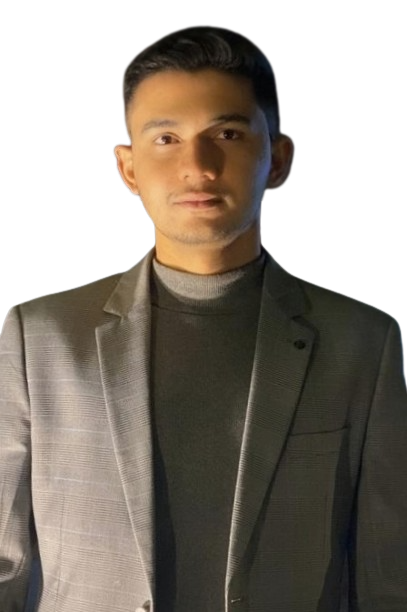
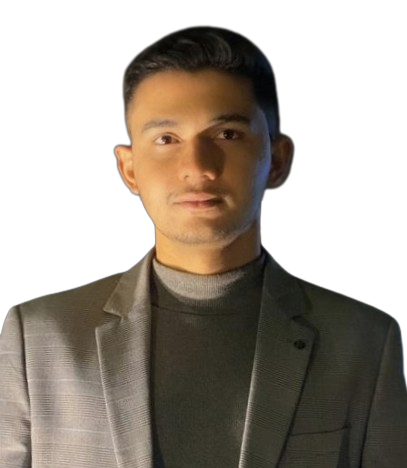
updated discription added contact info

diff --git a/index.html b/index.html
@@ -45,14 +45,11 @@
     <div class="d-flex flex-column">
 
       <div class="profile">
-        <img src="assets/img/profile-img.jpg" alt="" class="img-fluid rounded-circle">
+        <img src="assets/img/profile-img.png" alt="" class="img-fluid rounded-circle">
         <h1 class="text-light"><a href="index.html">Abdul Jalil</a></h1>
         <div class="social-links mt-3 text-center">
-          <a href="#" class="twitter"><i class="bx bxl-twitter"></i></a>
-          <a href="#" class="facebook"><i class="bx bxl-facebook"></i></a>
-          <a href="#" class="instagram"><i class="bx bxl-instagram"></i></a>
-          <a href="#" class="google-plus"><i class="bx bxl-skype"></i></a>
-          <a href="#" class="linkedin"><i class="bx bxl-linkedin"></i></a>
+          <a href="https://github.com/abduljalilmemon" class=""><i class="bx bxl-github"></i></a>
+          <a href="https://www.linkedin.com/in/abdul-jalil-memon/" class="linkedin"><i class="bx bxl-linkedin"></i></a>
         </div>
       </div>
 
@@ -73,7 +70,9 @@
   <section id="hero" class="d-flex flex-column justify-content-center align-items-center">
     <div class="hero-container" data-aos="fade-in">
       <h1>Abdul Jalil</h1>
-      <p>I'm a <span class="typed" data-typed-items="Software Engineer."></span></p>
+      <p>I'm a
+        <span class="typed" data-typed-items="Software Engineer., Python Developer., Computer Scientist., Freelancer."></span>
+      </p>
     </div>
   </section><!-- End Hero -->
 
@@ -81,14 +80,29 @@
 
     <!-- ======= About Section ======= -->
     <section id="about" class="about">
-      <div class="container">
-
+      <div class="container-fluid">
         <div class="section-title">
           <h2>About</h2>
-          <p>I am a software engineer with more than one year of experience and a strong foundation in Python programming. I have experience designing and implementing efficient, scalable software solutions. I have a passion for finding creative solutions to complex technical problems. As a lifelong learner, I am always looking to expand my skills and knowledge, and I am excited to join a dynamic and innovative team where I can apply my expertise in Python to real-world challenges.</p>
+        </div>
+        <div style="padding: 1%;">
+          <p>
+            Greetings! I'm a Software Engineer on a mission at TechnoGenics, where cybersecurity meets cutting-edge innovation. My days are a whirlwind of crafting backend microservices that sift through the digital cosmos, swiftly notifying users of any foul play - all thanks to the Python magic conjured with Django, FastAPI, and Flask. 🐍✨
+          </p>
+          <p>
+            But that's not all! I'm the data whisperer, choreographing a symphony of CRUD operations with MongoDB, orchestrating a data ballet into Neo4j from diverse web crawlers. And oh, let's not forget the pièce de résistance - building automated subscription spectacles using ElasticSearch, RabbitMQ, and REST APIs! 🎩🎪
+          </p>
+          <p>
+            With a degree in Computer Science, I'm equipped with the superpower of Python prowess and a formidable arsenal of data structures. My secret weapon? AI wizardry - especially genetic algorithms! 🧠🧬
+          </p>
+          <p>
+            I'm not just a lone crusader; I thrive in a dynamic team where ideas spark, and innovation ignites. I yearn to tackle the most intricate challenges, fueled by a desire to create solutions that impact the world for the better.
+          </p>
+          <p>
+            Here's to joining forces with a team that celebrates ingenuity, embraces collaboration, and thrives on solving the unsolvable. Together, we'll conquer the cyber frontier and leave a legacy of innovation! 🚀🌌
+          </p>
         </div>
 
-        <div class="row">
+        <!-- <div class="row">
           <div class="col-lg-3" data-aos="fade-right">
             <img src="assets/img/profile-img.png" class="img-fluid rounded-6" style="box-shadow: 10px 10px 5px #ccc;" alt="">
           </div>
@@ -98,21 +112,19 @@
               <div class="col-lg-6">
                 <ul>
                   <li><i class="bi bi-chevron-right"></i> <strong>Birthday:</strong> <span>13 Aug 1999</span></li>
-                  <li><i class="bi bi-chevron-right"></i> <strong>Website:</strong> <span>abduljalilmemon.github.io/</span></li>
                   <li><i class="bi bi-chevron-right"></i> <strong>Phone:</strong> <span>+92 3477733113</span></li>
-                  <li><i class="bi bi-chevron-right"></i> <strong>City:</strong> <span>Lahore, Karachi</span></li>
+                  <li><i class="bi bi-chevron-right"></i> <strong>City:</strong> <span>Karachi, Sindh</span></li>
                 </ul>
               </div>
               <div class="col-lg-6">
                 <ul>
-                  <li><i class="bi bi-chevron-right"></i> <strong>Age:</strong> <span>23</span></li>
                   <li><i class="bi bi-chevron-right"></i> <strong>Degree:</strong> <span>Bachelor</span></li>
                   <li><i class="bi bi-chevron-right"></i> <strong>Email:</strong> <span>abduljaleelmemon3@gmail.com</span></li>
                 </ul>
               </div>
             </div>
           </div>
-        </div>
+        </div> -->
 
       </div>
     </section><!-- End About Section -->
@@ -177,7 +189,7 @@
 
         <div class="row">
           <div class="col-lg-6" data-aos="fade-up">
-            <h3 class="resume-title">Summary</h3>
+            <!-- <h3 class="resume-title">Summary</h3>
             <div class="resume-item pb-0">
               <h4>Abdul Jalil</h4>
               <p><em>Experienced and deadline-focused Software Engineer with 1+ year of experience, skilled in designing and developing user-centered software solutions from concept to delivery.</em></p>
@@ -186,7 +198,7 @@
                 <li>+92 3477733113</li>
                 <li>abduljaleelmemon3@gmail.com</li>
               </ul>
-            </div>
+            </div> -->
 
             <h3 class="resume-title">Education</h3>
             <div class="resume-item">
@@ -553,12 +565,11 @@
     <!-- End Testimonials Section -->
 
     <!-- ======= Contact Section ======= -->
-    <!-- <section id="contact" class="contact">
+    <section id="contact" class="contact">
       <div class="container">
 
         <div class="section-title">
           <h2>Contact</h2>
-          <p>Magnam dolores commodi suscipit. Necessitatibus eius consequatur ex aliquid fuga eum quidem. Sit sint consectetur velit. Quisquam quos quisquam cupiditate. Et nemo qui impedit suscipit alias ea. Quia fugiat sit in iste officiis commodi quidem hic quas.</p>
         </div>
 
         <div class="row" data-aos="fade-in">
@@ -568,22 +579,21 @@
               <div class="address">
                 <i class="bi bi-geo-alt"></i>
                 <h4>Location:</h4>
-                <p>A108 Adam Street, New York, NY 535022</p>
+                <p>Karachi, Pakistan</p>
               </div>
 
               <div class="email">
                 <i class="bi bi-envelope"></i>
                 <h4>Email:</h4>
-                <p>info@example.com</p>
+                <p>abduljaleelmemon3@gmail.com</p>
               </div>
 
               <div class="phone">
                 <i class="bi bi-phone"></i>
                 <h4>Call:</h4>
-                <p>+1 5589 55488 55s</p>
+                <p>+92 347 7733113</p>
               </div>
-
-              <iframe src="https://www.google.com/maps/embed?pb=!1m14!1m8!1m3!1d12097.433213460943!2d-74.0062269!3d40.7101282!3m2!1i1024!2i768!4f13.1!3m3!1m2!1s0x0%3A0xb89d1fe6bc499443!2sDowntown+Conference+Center!5e0!3m2!1smk!2sbg!4v1539943755621" frameborder="0" style="border:0; width: 100%; height: 290px;" allowfullscreen></iframe>
+              <iframe src="https://maps.google.com/maps?width=600&amp;height=400&amp;hl=en&amp;q=Karachi, Pakistan&amp;t=&amp;z=16&amp;ie=UTF8&amp;iwloc=B&amp;output=embed" frameborder="0" style="border:0; width: 100%; height: 290px;" allowfullscreen></iframe>
             </div>
 
           </div>

diff --git a/assets/js/main.js b/assets/js/main.js
@@ -135,9 +135,9 @@
     new Typed('.typed', {
       strings: typed_strings,
       loop: true,
-      typeSpeed: 100,
-      backSpeed: 50,
-      backDelay: 2000
+      typeSpeed: 30,
+      backSpeed: 30,
+      backDelay: 1000
     });
   }
 
